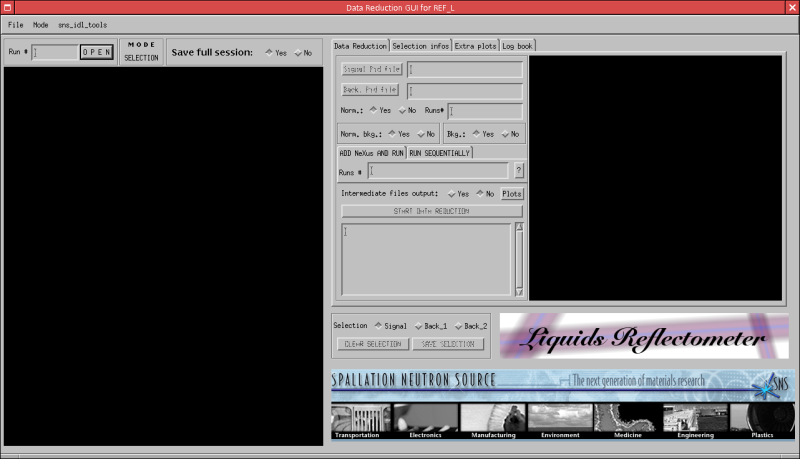
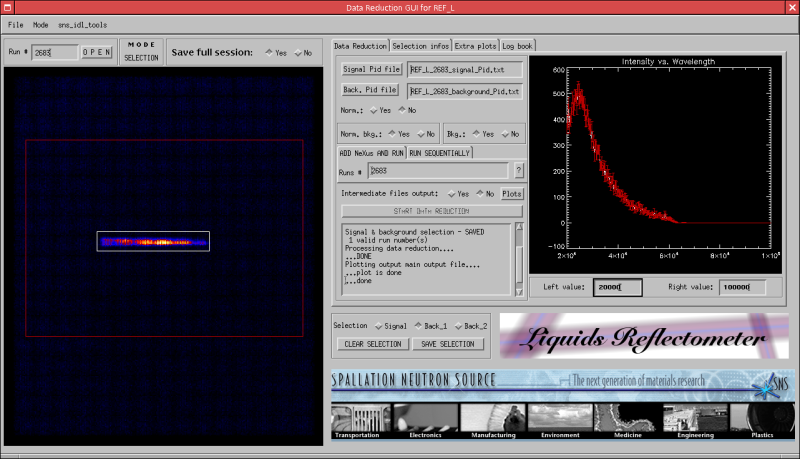
Refs #139. Updated pictures to take into account new feature of REF_L side (interaction with x-axis of data_reduction_plot.

diff --git a/gui/idldocs/DataReduction/data_reduction.html b/gui/idldocs/DataReduction/data_reduction.html
@@ -223,7 +223,7 @@ The large display on the left is where the NeXus run will be displayed.
 
   <ul>
   <li><font color=green><a id="link13">Data Reduction</a></font></li><br>
-      <center><img src='REF_L_images/data_reducton_tab_1.png'></img></center><br>
+      <center><img src='REF_L_images/data_reduction_tab_1.png'></img></center><br>
       <ul>
       <li> <u><a id="link14">Pid files<a>:</u> To be able to activate the <b>START DATA REDUCTION</b>
            button, a signal Pid (Pixel ID) and a Background Pid files must be loaded. To do so, 

diff --git a/gui/idldocs/sns_idl_tools_menu.htm b/gui/idldocs/sns_idl_tools_menu.htm
@@ -19,7 +19,7 @@
 </form>
 <form method="link" action='DataReduction/data_reduction.html' target='introduction'>
 <input type='submit' value='DataReduction'>
-<a href="update.html" target='introduction'><img src='images/update.gif'>(03/06/07)</a>
+<a href="update.html" target='introduction'><img src='images/update.gif'>(03/09/07)</a>
 </form>
 <form method="link" action='moreNeXus/moreNeXus.html' target='introduction'>
 <input type='submit' value='more_NeXus'><img src='images/coming_soon.gif'>

diff --git a/gui/idldocs/update.html b/gui/idldocs/update.html
@@ -42,7 +42,8 @@ pixels).
 
 <h3><center>DataReduction</center></h3>
 <ul>
-<li>(03/06/07) Updated plots and text to add new feature - Save Session.</li>
+<li>(03/09/07) Updated pictures to take into account new feature - data_reduction x_axis interaction</li>
+<li>(03/06/07) Updated pictures and text to add description of new feature - Save Session.</li>
 <li>(03/05/07)
  <ul>
  <li> Updated pictures (MENU -> File, Open_NeXus button in top menu removed).</li>
